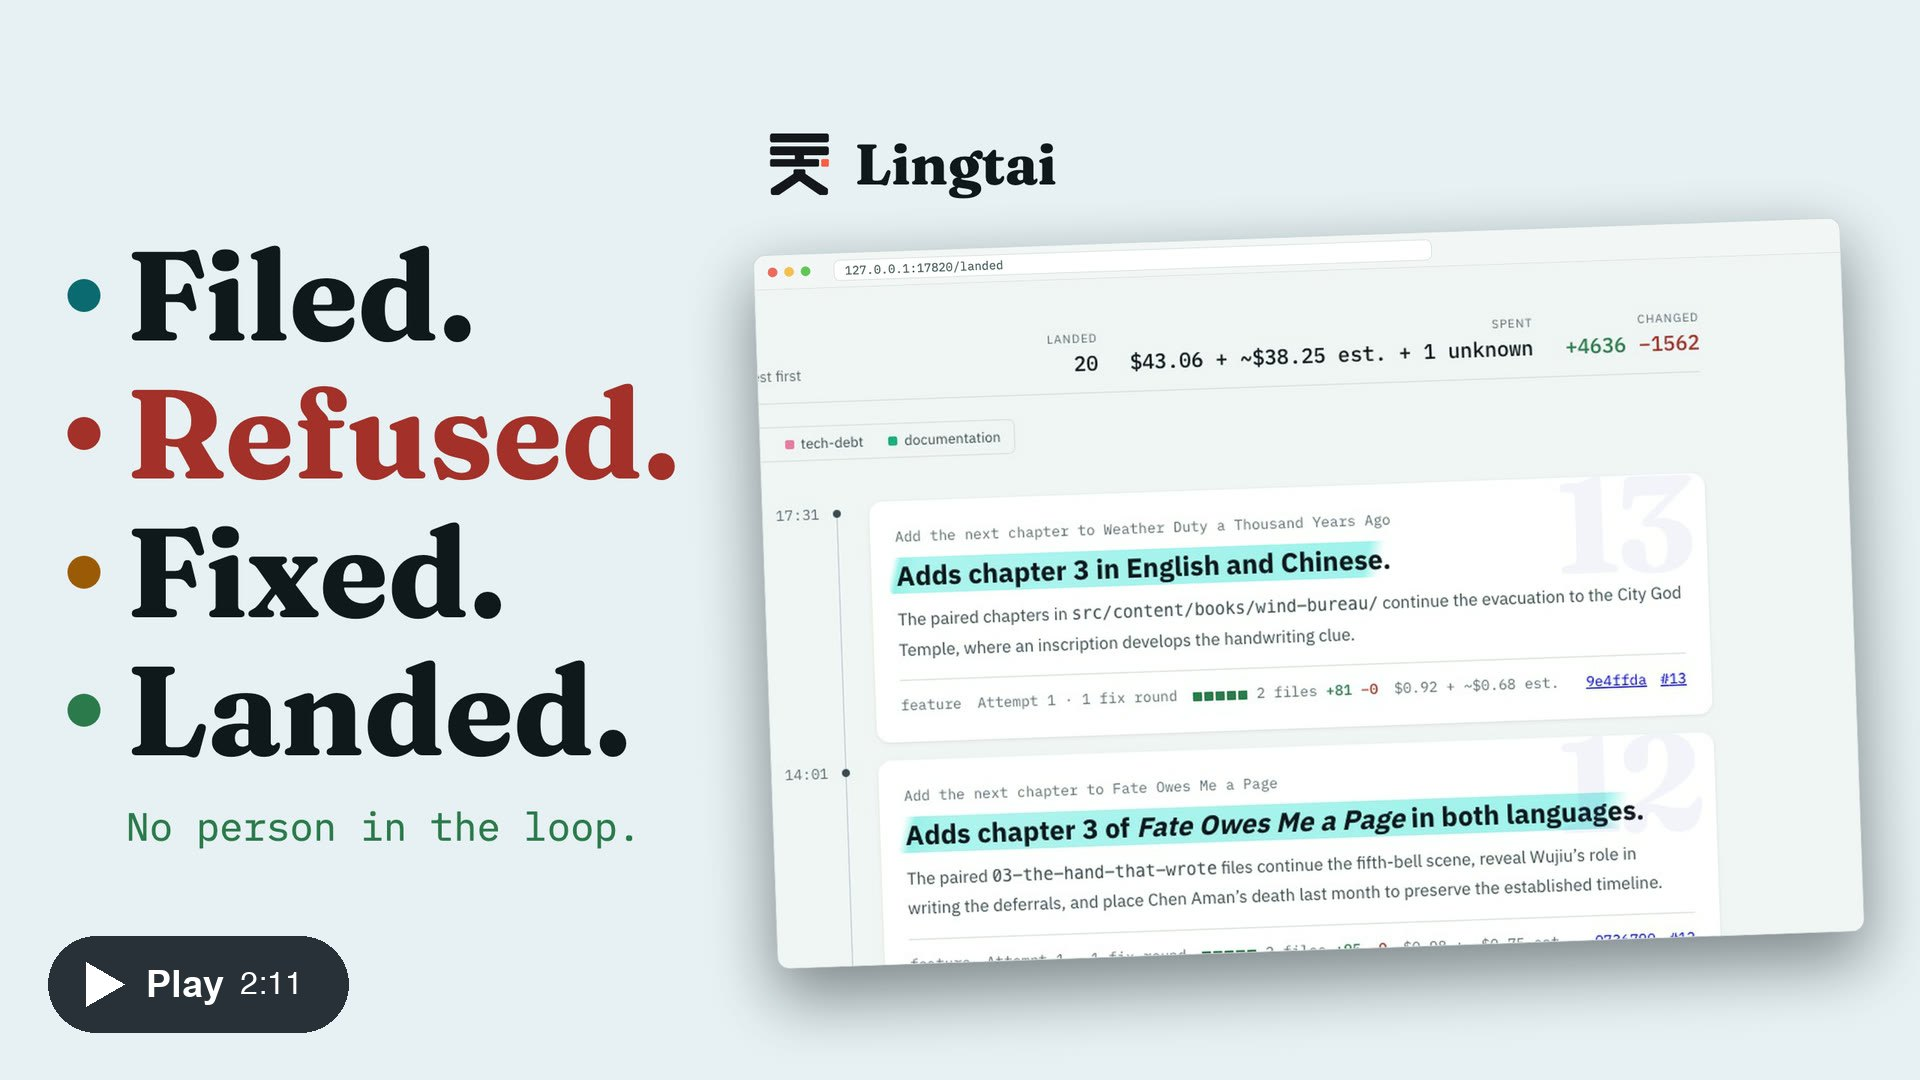
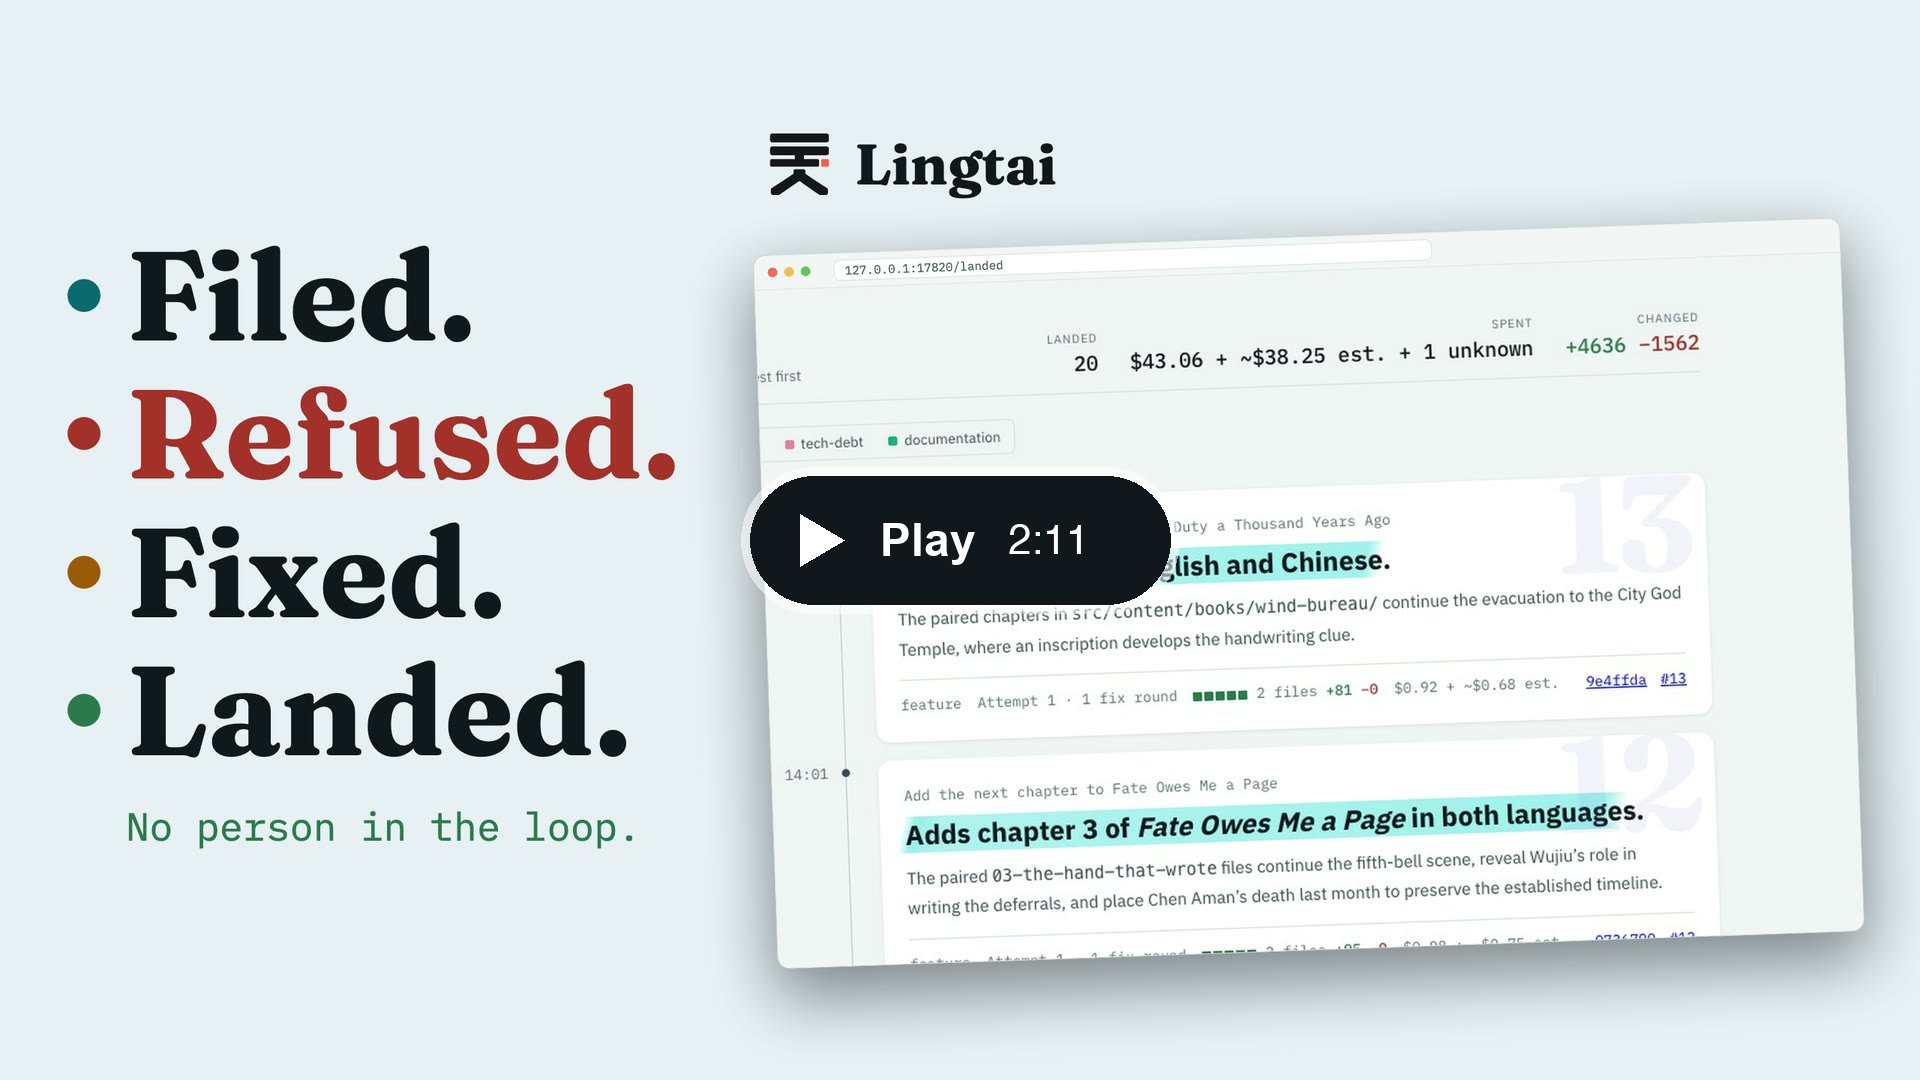
fix(site): the film spans the page and its Play button is large and centred
Claude-Session: https://claude.ai/code/session_01YcEiDb71C1RGZWvfzHVTnv

Changed region(s): [[0.375, 0.4278, 0.625, 0.5806], [0.0, 0.8556, 0.1875, 0.9778]]

diff --git a/apps/site/src/app/home.css b/apps/site/src/app/home.css
@@ -112,13 +112,19 @@
 .shot-nav { display: flex; justify-content: center; gap: 8px; padding: 8px; }
 .shot-step { font: 600 16px var(--sans); min-width: 44px; min-height: 44px; border: 1px solid var(--rule-2); background: var(--surface); color: var(--ink-2); border-radius: 999px; cursor: pointer; }
 .film { padding-top: 56px; }
-.film-frame { position: relative; aspect-ratio: 16 / 9; max-width: 1040px; width: 100%; border-radius: 10px; overflow: hidden; background: var(--surface-2); box-shadow: 0 24px 60px rgba(15, 24, 28, .14); }
-.film-frame a { display: block; width: 100%; height: 100%; }
-.film-frame img { display: block; width: 100%; height: 100%; object-fit: cover; }
+.film-frame { position: relative; aspect-ratio: 16 / 9; width: 100%; border-radius: 10px; overflow: hidden; background: var(--surface-2); box-shadow: 0 24px 60px rgba(15, 24, 28, .14); }
+.film-frame a { display: block; width: 100%; height: 100%; cursor: pointer; }
+.film-frame img { display: block; width: 100%; height: 100%; object-fit: cover; transition: filter .2s; }
 .film-frame iframe { position: absolute; inset: 0; width: 100%; height: 100%; border: 0; }
-.film-play { position: absolute; left: 16px; bottom: 16px; max-width: calc(100% - 32px); display: inline-flex; gap: 10px; align-items: center; font: 600 15px var(--sans); background: var(--ink); color: var(--ground); border-radius: 999px; padding: 10px 18px; }
+/* The one control on the poster, centred and large, because a still with a
+   small pill in a corner read as a picture rather than a player. Ink, not
+   coral: coral is the way in (site.css), and this is not it. */
+.film-play { position: absolute; left: 50%; top: 50%; transform: translate(-50%, -50%); display: inline-flex; gap: 14px; align-items: center; font: 600 20px var(--sans); background: var(--ink); color: var(--ground); border-radius: 999px; padding: 14px 30px 14px 16px; box-shadow: 0 0 0 6px rgba(255, 255, 255, .55), 0 18px 40px rgba(15, 24, 28, .35); transition: transform .2s, background .2s; }
+.film-play::before { content: ""; width: 52px; height: 52px; border-radius: 50%; background: var(--ground); clip-path: polygon(38% 28%, 38% 72%, 74% 50%); }
 .film-play span { font-weight: 400; opacity: .75; }
-.film-frame a:hover .film-play, .film-frame a:focus-visible .film-play { background: var(--accent-ink); }
+.film-frame a:hover img, .film-frame a:focus-visible img { filter: brightness(.94); }
+.film-frame a:hover .film-play, .film-frame a:focus-visible .film-play { background: var(--accent-ink); transform: translate(-50%, -50%) scale(1.06); }
+@media (max-width: 640px) { .film-play { font-size: 16px; padding: 10px 20px 10px 10px; } .film-play::before { width: 36px; height: 36px; } }
 .shot-box p { max-width: none; margin: 0; padding: 10px 14px; color: var(--ink-2); font-size: 14px; }
 .home .hero-actions .watch { color: var(--ink-2); text-decoration: none; font-size: 15px; }
 .home .hero-actions .watch:hover { color: var(--accent-ink); }
